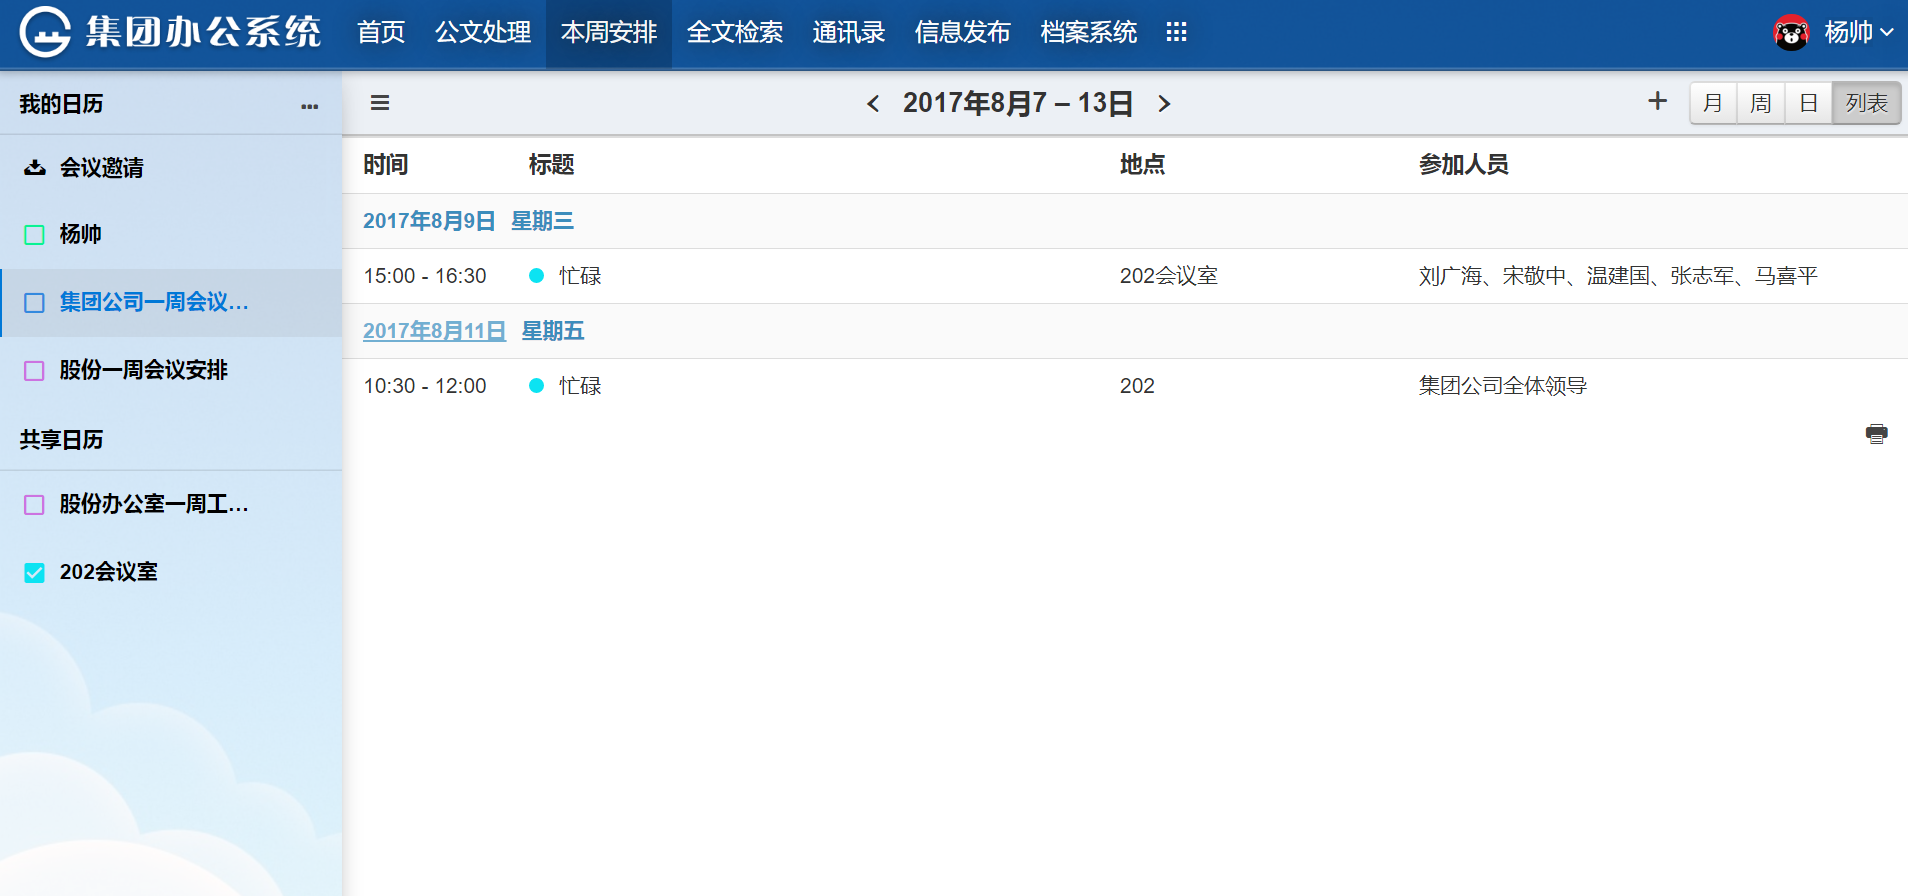
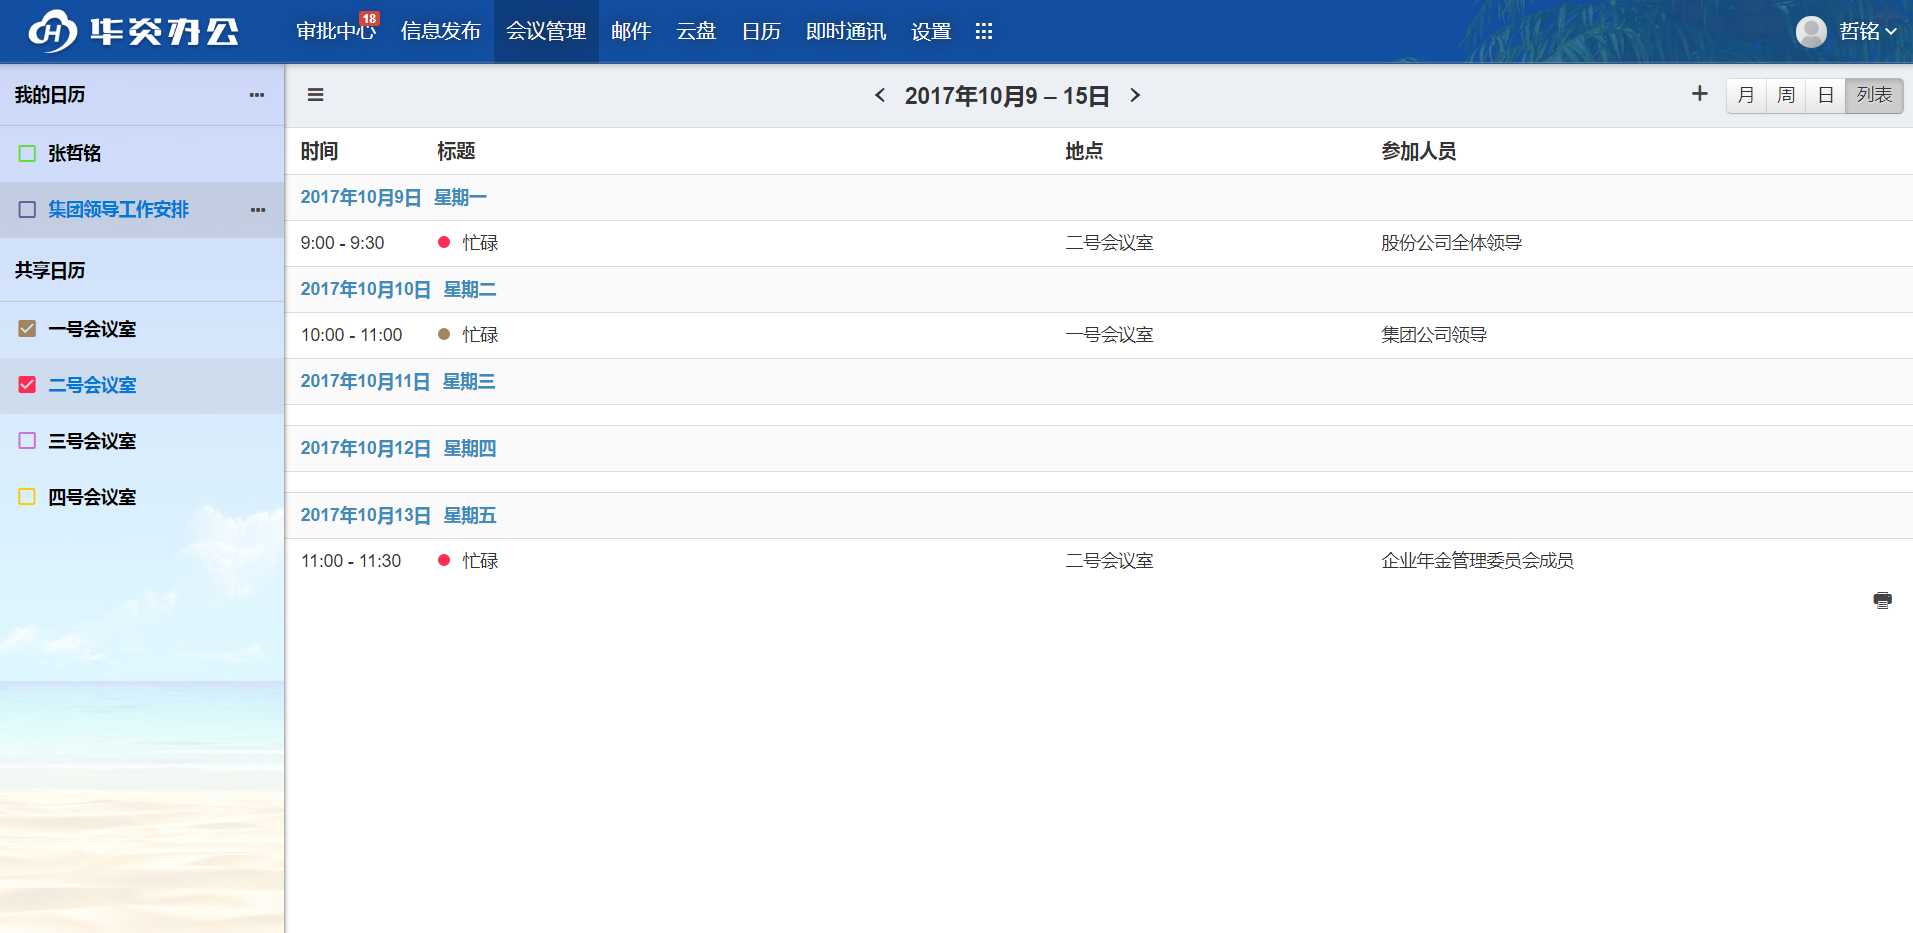
修改会议管理帮助文档

diff --git a/zh-cn/calendar/README.md b/zh-cn/calendar/README.md
@@ -1,4 +1,4 @@
-
+
 # 华炎会议管理系统
 
  华炎会议管理系统存在的价值就是帮您解决现实遇到的会议管理上困扰，我们的初衷只是让您更加省事省力省心。华炎会议管理系统具有以下基本功能：
@@ -12,31 +12,39 @@
  在主界面左侧是日历列表，右侧可以按不同方式显示会议。登录系统后，在主界面的右侧可以看到您的会议安排。您可以根据不同的查看方式查看会议。具体如下：
   - 按月：点击右上角“月”，右侧会显示您整月的会议安排，可以根据上面的“<”、“>”切换到其他月份。
   - 按周：点击右上角的“周”，右侧会显示您一周的会议安排，可以根据上面的“<”、“>”切换到其他周。
+
+    ![华炎云日历主界面](images/主界面2.png)
   - 按日：点击右上角的“日”，右侧会显示您某一天的会议安排，可以根据上面的“<”、“>”切换到其他日期。
   - 列表：点击右上角的“列表”，右侧会以列表的形式列出您一周的会议安排。可以根据上面的“<”、“>”切换到其他周。
-  ![华炎云日历主界面](images/主界面.png)
+ 
+    ![华炎云日历主界面](images/主界面.png)
  
 ## 会议查看与反馈
  除了可以显示您在某个时间段的所有会议，您也可以选择查看部分会议。具体如下：
-  - 按会议室：左侧选择要查看的会议室，选中会议室前面的“□”，选择按“月”、“周”、“日”或“列表”的方式查看即可。
-  - 按人：左侧显示您要查看的人员，选中人员前面的“□”，选择按“月”、“周”、“日”或“列表”的方式查看即可。
-  - 按日历：左侧显示您要查看的日历，选中日历的“□”，选择按“月”、“周”、“日”或“列表”的方式查看即可。
-  ![会议查看](images/会议查看.png)
+  - 按会议室：左侧选择要查看的会议室，选中会议室前面的“□”，选择按“月”、“周”、“日”或“列表”的方式查看，可查看到该会议室上的所有会议安排。
+  - 按人：左侧显示您要查看的人员，选中人员前面的“□”，选择按“月”、“周”、“日”或“列表”的方式查看，可查看到此人的所有会议安排。
+  - 按日历：左侧显示您要查看的日历，选中日历的“□”，选择按“月”、“周”、“日”或“列表”的方式查看，可查看到安排在这个日历上的所有的会议安排。
+  
+    ![会议查看](images/会议查看.png)
 
  因为权限的设置不同，有些不是我的会议安排，我们可能无法知道会议详情，而只是知道会议的发生时间和地点。所以有时我们查看某一会议室时只能看到空闲忙碌状态，但这已经够了。
 
- 跟我们本人有关的会议安排，我们可以看到会议的详情，根据会议详情，决定能不能参加会议。如果不能，就可以说明原因并及时反馈给会议的组织者。
-  ![会议反馈](images/会议反馈.png)
+ 如果我们有新的会议邀请，在私人日历栏会看到一个数字，代表邀请您参加的会议数量，您可以直接点击数字，进去“我的会议邀请”界面，查看所有的会议邀请，并依次决定是否参加。
 
+  ![会议邀请](images/会议邀请.png) 
+ 跟我们本人有关的会议安排，我们可以看到会议的详情，根据会议详情，决定能不能参加会议。如果不能，就可以说明原因并及时反馈给会议的组织者。  
+
+  ![会议反馈](images/会议反馈.png)
 ## 会议安排
  在主界面上，点击任意“+”按钮，或选择按“月”，“周”，“日”查看时，在主界面右侧任意位置单击或拖动都会进入新增会议界面。一个会议主要包含以下几个要素：
   - 标题：会议的名称或主题。默认会议标题为“新建会议”。
   - 时间：包括开始时间和结束时间。可以点击“全天”，“上午”，“下午”快捷生成时间。也可以点击编辑框自行选择时间。
   - 地点：输入会议地点。在选择会议室之前，可以先了解会议室的占用情况。
-  - 参会人员：点击右上角的“+”，进入选人界面，选择参会人员和会议室即可。
+  - 参会人员：点击右侧的“邀请成员”，进入选人界面，选择参会人员和会议室即可。
   - 提醒：在会议开始之前可设置时间点提醒，如在会议开始前10分钟提醒您参加会议。
   - 所属日历：新增会议结束后，查看会议时，选中该日历可以查看到这个会议。点击“保存”按钮，系统会给每个参会人员发送通知，他们也能看到这个会议，并做出反馈。
-  ![会议安排](images/会议安排.png)
+  
+    ![会议安排](images/会议安排.png)
 
  已经建好的会议，如果有变化可以随时修改，会议的组织者点击需要修改的会议，进入会议信息界面，重新编辑需要修改的要素即可。修改之后，参会人员会收到修改通知，同时新的会议信息也会同步给他们。
 
@@ -45,9 +53,10 @@
 ## 会议室管理
  开会就必须使用会议室，合理的使用会议室才能避免会议冲突的尴尬。在新增或修改会议之前，先了解会议室的占用状况就很有意义了。
  - 订阅您想要使用的会议室。在主界面左侧，按会议室查看会议。
- - 根据您希望知道该会议室在某个时间段的占用情况，选择查看方式。
+ - 根据会议室的占用情况，合理使用会议室。
 
  对会议室的管理可能涉及到修改会议室名称，新增会议室，删除会议室。本系统的用户角色分为管理员和普通用户，将会议室虚拟为普通用户，对普通用户的编辑操作可用来操作会议室。
+ 
   ![会议室管理](images/会议室管理.png)
 
 ## 日历
@@ -56,8 +65,15 @@
  - 个人日历: “我的日历”包含个人日历和普通日历。个人日历是系统为每一个使用华炎会议管理系统的用户默认建立的日历，以用户名命名，
 	您可以修改个人日历，但是不可以删除。
  - 共享日历: 共享日历是由管理员建立的授权给普通用户的日历，它是授权给您查看或您订阅的日历的集合。
-	其他用户在编辑日历时，选择授权查看给您，那么该日历就会出现在您的“共享日历”一栏，您也可以订阅其他用户的日历（具体见订阅日历一节），该用户同意后，他的个人日历就会出现在您的“共享日历”一栏。
- - 管理员: 管理员拥有最高的权限，不仅可以修改日历的基本属性和在日历上添加会议，也可以编辑修改管理员、成员、授权查看用户。
+
+  没有购买专业版的会议管理，只能新增一个共享日历。购买专业版的会议管理，共享日历数量不受限制。
+	
+  共享日历授权查看给您，那么该日历就会出现在您的“共享日历”一栏，私人日历授权查看给您，您还需订阅该日历，那么该日历就会出现在您的“共享日历”一栏。 
+
+  您也可以订阅其他用户的日历（具体见订阅日历一节），该用户同意后，他的个人日历就会出现在您的“共享日历”一栏。
+ 
+ - 创建者：创建者拥有最高的权限，不仅可以修改日历的基本属性和在日历上添加会议，也可以编辑修改管理员、成员、授权查看用户。
+ - 管理员: 管理员拥有次高的权限，不仅可以修改日历的基本属性和在日历上添加会议，也可以编辑修改成员、授权查看用户。
  - 成员: 成员不能修改日历的基本属性，也不能编辑管理员、成员、授权查看用户，但是可以在日历上添加会议。
  - 授权查看用户: 此类用户的等级最低，不能修改，也不能在日历上添加会议，只能查看该日历上会议的详情。
  - 日历的添加与维护：
@@ -65,19 +81,30 @@
       1. 新增日历：普通用户会有自己的个人日历，不可以新增日历，工作区管理员可新增日历。点击“我的日历”一栏右侧的“…”，选择“新建共享日历”。
       2. 修改日历：在“我的日历”下，选择要修改的日历，点击日历右侧的“…”，选择“编辑日历”，进入日历编辑界面，修改之后保存即可。
       3. 删除日历：在“我的日历”下，选择要修改的日历，点击日历右侧的“…”，选择“删除日历”。
-  ![日历](images/日历.png)
+  
+      ![日历](images/日历.png)
 
 ## 订阅日历
  订阅日历是指您想了解其他用户的空闲忙碌状况可以申请点阅他的个人日历。订阅其他用户，您只能看到他的空闲忙碌状态，不能看到他的会议详情。具体订阅如下：
  - 在“我的日历”栏右侧，点击“…”，点击“订阅他人日历”。在弹出的选人窗口中，选择您要订阅的用户即可。
  - 被订阅用户会收到你的订阅申请，他有权同意或拒绝。如果他同意您的订阅申请，他的个人日历会出现在您的“共享日历”一栏里，您可以选中该日历，在右侧查看该用户的空闲忙碌状态。
  - 您也可以直接点击个人日历一栏的“…”，点击授权查看忙碌状态，选择要授权的人，这样如果他想订阅您的日历，就不需要您再次同意，便可订阅成功。
+ - 在“共享日历”栏，选择您要取消订阅的日历，点击右侧的“…”，在弹出的下拉菜单里，点击“取消订阅”即可。
+ - 在“我的日历”栏，右侧点击“…”,在弹出的菜单中选择“订阅共享日历”可以批量订阅或取消已经授权给您的共享日历。
 
-## 手机同步（专业版）
+   ![日历](images/订阅日历.png)
+
+## 手机同步
  华炎会议管理系统支持同步到手机系统自带的日历上，您即使不装我们软件的手机版也能随时随地同步到最新的数据。而且这种同步是双向的，您在PC上使用本软件对日历和会议做的修改，会立刻同步到您的手机上，当然您也可以在手机自带的日历软件上对日历和会议做修改，同样会同步到我们的日历软件上。具体操作如下：
- - 设置->日历->账户->添加账户->其他->添加CalDav账户
- - 输入服务器，用户名和密码。如[https://cn.steedos.com](https://cn.steedos.com)
- 
- - 下一步，连接上服务器，将日历和会议同步到您的设备上即可。
+ - 苹果手机同步
+     - 设置->账户和密码->添加账户->其他->添加CalDav账户
+     - 输入服务器，用户名和密码。如[https://cn.steedos.com](https://cn.steedos.com)及您使用会议管理的用户名和密码。
+     - 点击下一步，连接上服务器，将日历和会议同步到您的设备上即可。
+ - 安卓手机同步
+     - 下载安卓第三方软件"sol日历"
+     - 设置->添加其他日历账户->用户自定义
+     - 输入服务器，用户名和密码。如[https:cn.steedos.com/dav](https://cn.steedos.com/dav)及您使用会议管理的用户名和密码。
+     - 确定之后，会将日历和会议同步到您的设备上。
+ 注：此功能是专业版功能，需要购买会议管理专业版才能使用，目前可免费试用。
 
- 注：此功能需要付费才能使用。
+   ![日历](images/手机同步.png)
